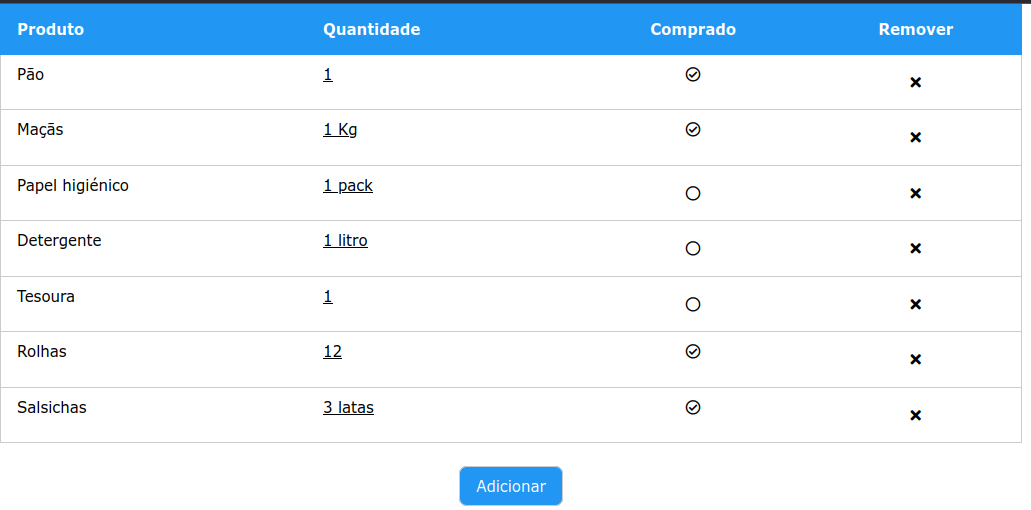
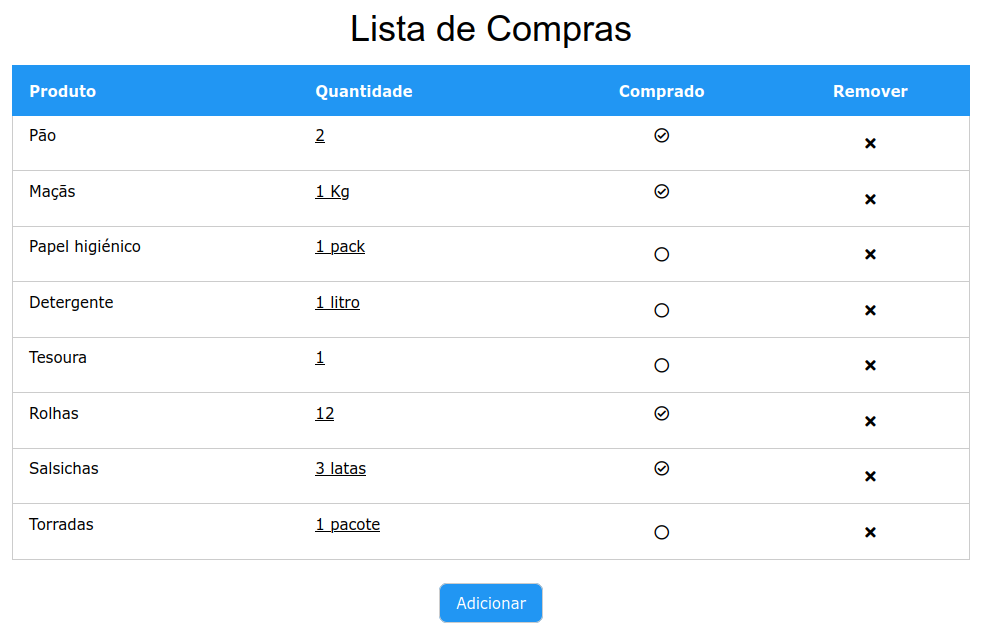
actualizada a imagem da ágina principal; adicionadas as imagens das páginas em falta; completada a explicação;

diff --git a/templates/adicionar.html b/templates/adicionar.html
@@ -1,14 +1,14 @@
 <!DOCTYPE html> 
 <html> 
     <head> 
-        <title>Adicionar Artigo </title>
+        <title>Adicionar Produto </title>
         <meta name="viewport" content="width=device-width, initial-scale=1 /">
         <link rel="stylesheet" href="https://www.w3schools.com/w3css/4/w3.css" />
         <link rel="stylesheet" href="https://cdnjs.cloudflare.com/ajax/libs/font-awesome/5.12.1/css/all.min.css" /> 
     </head> 
     <body>
         <div class="w3-container w3-twothird">
-            <h1 class="w3-center">Adicionar produto</h1>
+            <h1 class="w3-center">Adicionar Produto</h1>
 
             <form class="w3-container" method="POST"> 
                 <label class="w3-text-blue">Produto:</label> 

diff --git a/README.md b/README.md
@@ -83,6 +83,8 @@ e podemos aceder à web app pelo link [http://127.0.0.1:5000](http://127.0.0.1:5
 A página principal ('index.html') constrói uma tabela HTML com todos os items
 da tabela ARTIGOS na base de dados.
 
+![index.html](index_html.png)
+
 Esta tabela tem 4 colunas:
 
 - 'Produto'
@@ -111,6 +113,8 @@ duas entradas de texto:
 - 'Produto'
 - 'Quantidade'
 
+![adicionar.html](adicionar_html.png)
+
 Estes valores são usados para criar um novo item na base de dados
 (sempre na tabela ARTIGOS) sendo feito o seguinte mapeamento:
 
@@ -127,13 +131,14 @@ entrada de texto:
 
 - 'Quantidade'
 
+![alterarqtd.html](alterarqtd_html.png)
+
 este valor é usado para um update ao campo 'quantidade' do item
 na base de dados.
 
 
 ## Ainda por fazer
 
-- applicar estilos W3-CSS às páginas 'adicionar.html' e 'alterarqtd.html'
 - melhorar a explicação
 
 
